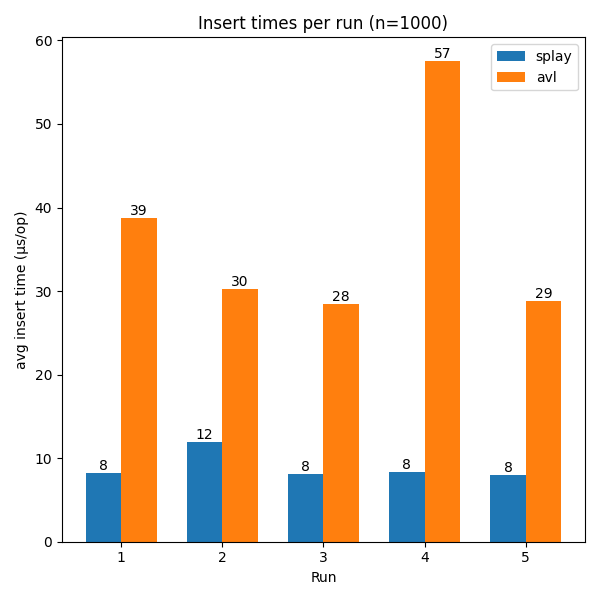
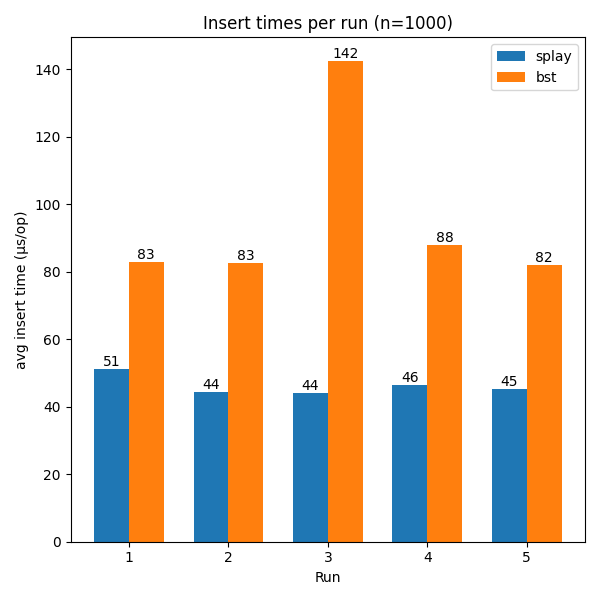
include bst;

diff --git a/benchmark.py b/benchmark.py
@@ -2,10 +2,11 @@
 import time
 import random
 import argparse
+
 import matplotlib.pyplot as plt
 from univerify import Document
 from trees.splay import Tree as SplayTree
-from trees.avl import Tree as AVLTree
+from trees.bst import Tree as BSTTree
 
 def run(tree_cls, n, searches):
     """Run benchmark for given tree class, n inserts and searches"""
@@ -52,32 +53,31 @@ def main():
     import os
     os.makedirs(out_dir, exist_ok=True)
 
-    # Store aggregated results: dict[n] -> lists of trial results
     results = {}
     for n in n_values:
         print(f"Running n={n} with {trials} trials (searches={searches})...")
         splay_inserts = []
         splay_searches = []
-        avl_inserts = []
-        avl_searches = []
+        bst_inserts = []
+        bst_searches = []
         for t in range(trials):
             # seed for reproducibility across trials
             random.seed(1000 + t)
             si, ss = run(SplayTree, n, searches)
-            ai, as_ = run(AVLTree, n, searches)
+            bi, bs = run(BSTTree, n, searches)
             splay_inserts.append(si)
             splay_searches.append(ss)
-            avl_inserts.append(ai)
-            avl_searches.append(as_)
-            print(f"  trial {t+1}: splay_insert={si:.1f}μs splay_search={ss:.1f}μs | avl_insert={ai:.1f}μs avl_search={as_:.1f}μs")
+            bst_inserts.append(bi)
+            bst_searches.append(bs)
+            print(f"  trial {t+1}: splay_insert={si:.1f}μs splay_search={ss:.1f}μs | bst_insert={bi:.1f}μs bst_search={bs:.1f}μs")
         results[n] = {
             'splay_inserts': splay_inserts,
             'splay_searches': splay_searches,
-            'avl_inserts': avl_inserts,
-            'avl_searches': avl_searches,
+            'bst_inserts': bst_inserts,
+            'bst_searches': bst_searches,
         }
 
-        # For each n, plot per-run bars for insert and search (x=run, bars=AVL/Splay)
+        # For each n, plot per-run bars for insert and search (x=run, bars=BST/Splay)
         import statistics
         run_ids = [str(i+1) for i in range(trials)]
         x = range(trials)
@@ -85,7 +85,7 @@ def main():
         # Insert times per run
         plt.figure(figsize=(6,6))
         s_bars = plt.bar([i - width/2 for i in x], splay_inserts, width, label='splay')
-        a_bars = plt.bar([i + width/2 for i in x], avl_inserts, width, label='avl')
+        b_bars = plt.bar([i + width/2 for i in x], bst_inserts, width, label='bst')
         plt.xticks(x, run_ids)
         plt.xlabel('Run')
         plt.ylabel('avg insert time (μs/op)')
@@ -93,7 +93,7 @@ def main():
         plt.legend()
         for i, v in enumerate(splay_inserts):
             plt.text(i - width/2, v, f'{v:.0f}', ha='center', va='bottom')
-        for i, v in enumerate(avl_inserts):
+        for i, v in enumerate(bst_inserts):
             plt.text(i + width/2, v, f'{v:.0f}', ha='center', va='bottom')
         fn = os.path.join(out_dir, f'benchmark_n_{n}_inserts.png')
         plt.tight_layout()
@@ -104,7 +104,7 @@ def main():
         # Search times per run
         plt.figure(figsize=(6,6))
         s_bars = plt.bar([i - width/2 for i in x], splay_searches, width, label='splay')
-        a_bars = plt.bar([i + width/2 for i in x], avl_searches, width, label='avl')
+        b_bars = plt.bar([i + width/2 for i in x], bst_searches, width, label='bst')
         plt.xticks(x, run_ids)
         plt.xlabel('Run')
         plt.ylabel('avg search time (μs/op)')
@@ -112,7 +112,7 @@ def main():
         plt.legend()
         for i, v in enumerate(splay_searches):
             plt.text(i - width/2, v, f'{v:.0f}', ha='center', va='bottom')
-        for i, v in enumerate(avl_searches):
+        for i, v in enumerate(bst_searches):
             plt.text(i + width/2, v, f'{v:.0f}', ha='center', va='bottom')
         fn = os.path.join(out_dir, f'benchmark_n_{n}_searches.png')
         plt.tight_layout()
@@ -123,15 +123,15 @@ def main():
     # Trend plot across n_values: grouped bars for inserts and searches
     import statistics
     si_means = [statistics.mean(results[n]['splay_inserts']) for n in n_values]
-    ai_means = [statistics.mean(results[n]['avl_inserts']) for n in n_values]
+    bi_means = [statistics.mean(results[n]['bst_inserts']) for n in n_values]
     ss_means = [statistics.mean(results[n]['splay_searches']) for n in n_values]
-    as_means = [statistics.mean(results[n]['avl_searches']) for n in n_values]
+    bs_means = [statistics.mean(results[n]['bst_searches']) for n in n_values]
 
     # Plot inserts trend as line plot
     x = range(len(n_values))
     plt.figure(figsize=(8,8))
     plt.plot(x, si_means, marker='o', label='splay insert')
-    plt.plot(x, ai_means, marker='o', label='avl insert')
+    plt.plot(x, bi_means, marker='o', label='bst insert')
     plt.xticks(x, [str(n) for n in n_values])
     plt.xlabel('n')
     plt.ylabel('avg insert time (μs/op)')
@@ -139,7 +139,7 @@ def main():
     plt.legend()
     for i, v in enumerate(si_means):
         plt.text(i, v, f'{v:.0f}', ha='center', va='bottom')
-    for i, v in enumerate(ai_means):
+    for i, v in enumerate(bi_means):
         plt.text(i, v, f'{v:.0f}', ha='center', va='bottom')
     fn = os.path.join(out_dir, 'trend_inserts.png')
     plt.tight_layout()
@@ -150,7 +150,7 @@ def main():
     # Plot searches trend as line plot
     plt.figure(figsize=(8,8))
     plt.plot(x, ss_means, marker='o', label='splay search')
-    plt.plot(x, as_means, marker='o', label='avl search')
+    plt.plot(x, bs_means, marker='o', label='bst search')
     plt.xticks(x, [str(n) for n in n_values])
     plt.xlabel('n')
     plt.ylabel('avg search time (μs/op)')
@@ -158,7 +158,7 @@ def main():
     plt.legend()
     for i, v in enumerate(ss_means):
         plt.text(i, v, f'{v:.0f}', ha='center', va='bottom')
-    for i, v in enumerate(as_means):
+    for i, v in enumerate(bs_means):
         plt.text(i, v, f'{v:.0f}', ha='center', va='bottom')
     fn = os.path.join(out_dir, 'trend_searches.png')
     plt.tight_layout()
@@ -174,18 +174,19 @@ def main():
     # Write average insert times
     with open(insert_csv, 'w', newline='') as f:
         writer = csv.writer(f)
-        writer.writerow(['n', 'Splay', 'AVL'])
+        writer.writerow(['n', 'Splay', 'BST'])
         for i, n in enumerate(n_values):
-            writer.writerow([n, f"{si_means[i]:.1f}", f"{ai_means[i]:.1f}"])
+            writer.writerow([n, f"{si_means[i]:.1f}", f"{bi_means[i]:.1f}"])
     print(f"Saved insert averages to {insert_csv}")
 
     # Write average search times
     with open(search_csv, 'w', newline='') as f:
         writer = csv.writer(f)
-        writer.writerow(['n', 'Splay', 'AVL'])
+        writer.writerow(['n', 'Splay', 'BST'])
         for i, n in enumerate(n_values):
-            writer.writerow([n, f"{ss_means[i]:.1f}", f"{as_means[i]:.1f}"])
+            writer.writerow([n, f"{ss_means[i]:.1f}", f"{bs_means[i]:.1f}"])
     print(f"Saved search averages to {search_csv}")
+
 
 if __name__ == '__main__':
     main()

diff --git a/trees/bst.py b/trees/bst.py
@@ -1,0 +1,120 @@
+"""
+bst.py
+
+Standalone Binary Search Tree (BST) implementation used by the Univerify app
+ - insert(Document) -> bool
+ - search(doc_id) -> Optional[Document]
+ - update(doc_id, new_status) -> Optional[Document]
+ - delete(doc_id) -> bool
+ - display_root() -> None
+"""
+
+from __future__ import annotations
+from typing import Optional
+
+class Node:
+    """
+    Node Class
+    ===========
+      - A node in the BST that wraps a document
+    """
+    def __init__(self, document):
+        self.doc = document
+        self.left: Optional["Node"] = None
+        self.right: Optional["Node"] = None
+
+class Tree:
+    """
+    Tree Class
+    ===========
+      - Standard Binary Search Tree (BST) implementation
+    """
+    def __init__(self):
+        self.root: Optional[Node] = None
+
+    def insert(self, doc) -> bool:
+        """Insert a new document into the tree"""
+        key = int(doc.doc_id)
+        if self.search(key) is not None:
+            print(f"Document {key} already exists. Update or Search instead.")
+            return False
+
+        def _insert_node(node: Optional[Node], doc) -> Node:
+            if node is None:
+                return Node(doc)
+            k = int(doc.doc_id)
+            if k < int(node.doc.doc_id):
+                node.left = _insert_node(node.left, doc)
+            else:
+                node.right = _insert_node(node.right, doc)
+            return node
+
+        was_empty = self.root is None
+        self.root = _insert_node(self.root, doc)
+        if was_empty:
+            print(f"Inserted root: {key}")
+        else:
+            print(f"Inserted: {key}")
+        return True
+
+    def search(self, doc_id: int):
+        """Search for a document in the tree"""
+        node = self.root
+        while node:
+            if int(doc_id) == int(node.doc.doc_id):
+                print(f"\nFound: {node.doc}")
+                return node.doc
+            elif int(doc_id) < int(node.doc.doc_id):
+                node = node.left
+            else:
+                node = node.right
+        print("Document not found.")
+        return None
+
+    def update(self, doc_id: int, new_status: str):
+        """Update document status"""
+        doc = self.search(doc_id)
+        if doc:
+            doc.status = new_status
+            print(f"Updated Status to '{new_status}' for Document {doc_id}")
+            return doc
+        return None
+
+    def delete(self, doc_id: int) -> bool:
+        """Delete a document from the tree"""
+        def _min_value_node(node: Node) -> Node:
+            current = node
+            while current.left is not None:
+                current = current.left
+            return current
+
+        def _delete_node(node: Optional[Node], key: int) -> Optional[Node]:
+            if node is None:
+                return None
+            if key < int(node.doc.doc_id):
+                node.left = _delete_node(node.left, key)
+            elif key > int(node.doc.doc_id):
+                node.right = _delete_node(node.right, key)
+            else:
+                if node.left is None:
+                    return node.right
+                elif node.right is None:
+                    return node.left
+                temp = _min_value_node(node.right)
+                node.doc = temp.doc
+                node.right = _delete_node(node.right, int(temp.doc.doc_id))
+            return node
+
+        if self.search(doc_id) is None:
+            print("Document not found, cannot delete.")
+            return False
+        self.root = _delete_node(self.root, int(doc_id))
+        print(f"Deleted Document {doc_id}")
+        return True
+
+    def display_root(self) -> None:
+        """Display the current root document"""
+        if self.root:
+            print(f"Current Root: {self.root.doc}")
+        else:
+            print("Tree is empty.")

diff --git a/univerify.py b/univerify.py
@@ -10,7 +10,7 @@ import os
 import json
 import argparse
 from typing import List, Optional, Tuple
-from trees import splay, avl
+from trees import splay, avl, bst
 
 
 class Document:
@@ -74,8 +74,10 @@ class UniverifyApp:
         tt = (tree_type or "splay").lower()
         if tt == "avl":
             self.tree = avl.Tree()   # Use AVL tree
+        elif tt == "bst":
+            self.tree = bst.Tree()   # Use BST tree
         else:
-            self.tree = splay.Tree() # Use splay tree
+            self.tree = splay.Tree() # Use Splay tree
 
     def _file_path(self, doc_id: int) -> str:
         """
